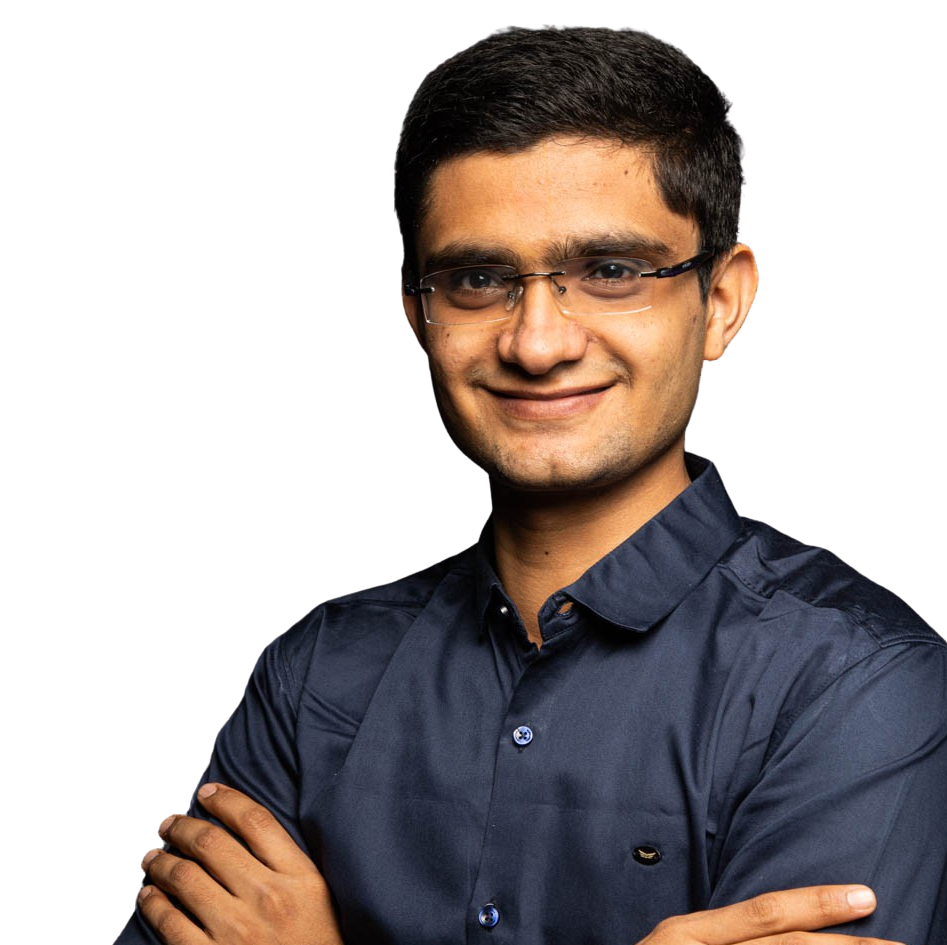
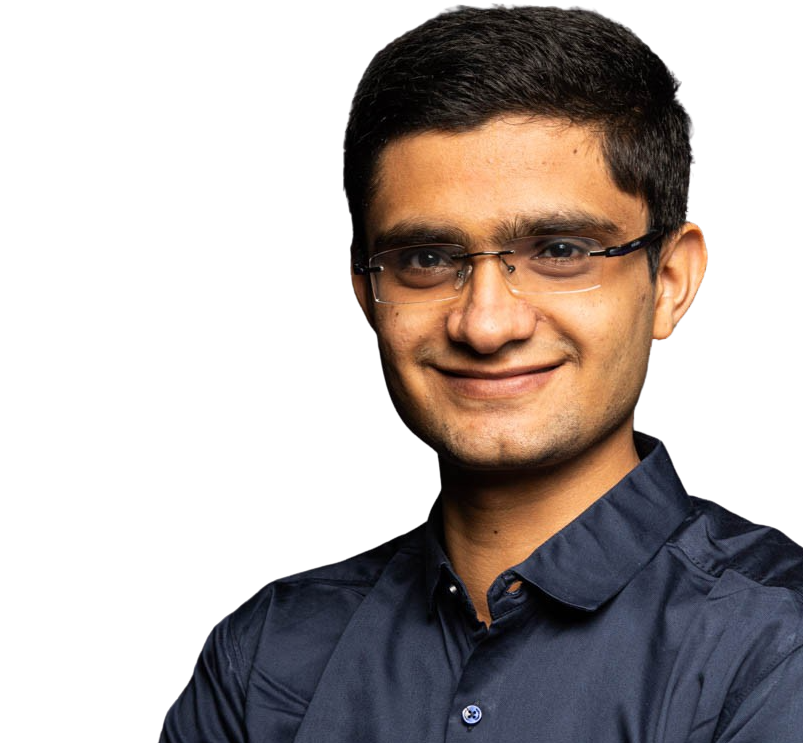
first section for responsiveness

diff --git a/index.html b/index.html
@@ -20,14 +20,19 @@
   </head>
   <body>
     <header class="header-container" data-js="main-container">
+      <div class="tag-image">
+        <a href="#home"
+          ><img src="./assets/Nav_img.png" alt="tag-image"
+        /></a>
+      </div>
       <ul class="nav-bar">
-        <li>
+        <!-- <li>
           <div class="tag-image">
             <a href="#home"
               ><img src="./assets/Nav_img.png" alt="tag-image"
             /></a>
           </div>
-        </li>
+        </li> -->
         <li><a href="#home">Home</a></li>
         <li><a href="#about">About</a></li>
         <li><a href="#project">Project</a></li>
@@ -36,8 +41,10 @@
           <button data-js="toggle-switch">
             <i class="fa-regular  fa-2xl fa-moon" id="theme"></i>
           </button>
+          <i class="fa-solid fa-xmark "></i>
         </li>
       </ul>
+      <i class="fa-solid fa-bars "></i>
     </header>
     <main class="main-container">
       <!-- Home -->
@@ -48,7 +55,7 @@
           </h1>
           <p class="dev">Software Developer, Frontend & WebApp</p>
           <div class="rw-wrapper">
-            <p class="iam">I am</p>
+            <p class="iam">I am a</p>
             <div class="rw-words rw-words-1">
               <p>Thinker</p>
               <p>Problem Solver.</p>

diff --git a/CSS/main.css b/CSS/main.css
@@ -2,3 +2,56 @@
   display: flex;
   flex-direction: column;
 }
+
+i.fa-solid {
+  display: none;
+}
+
+/* Media Query */
+
+@media only screen and (max-width: 600px) {
+  .home-container .--right img {
+    content: url(../assets/backgroundmq.png);
+    width: 250px;
+    max-height: min-content;
+  }
+  .home-container .--left {
+    margin-left: 20px;
+  }
+  .home-container .--left h1 {
+    font-size: 1.5rem !important;
+  }
+  .home-container .--left .dev {
+    font-size: 1rem !important;
+    margin-left: 10px;
+  }
+  .iam {
+    font-size: 1.5rem !important;
+  }
+  .rw-words {
+    font-size: 1.5rem !important;
+  }
+  i.fa-solid {
+    display: block;
+    font-size: 25px;
+  }
+  .nav-bar {
+    background-color: blue;
+    position: fixed;
+    flex-direction: column;
+    top: 0;
+    right: 0;
+    width: 200px;
+    height: 100vh;
+  }
+  .tag-image img {
+    left: 30px;
+    top: 30px;
+  }
+  li .fa-solid {
+    position: relative;
+    bottom: 450px;
+    left: 10px;
+    font-size: 40px;
+  }
+}

diff --git a/CSS/home.css b/CSS/home.css
@@ -26,10 +26,6 @@
   font-size: 1.5rem;
 }
 
-.dev {
-  font-size: 50px;
-}
-
 /* Text Animation Start */
 .rw-wrapper {
   width: 70%;
@@ -94,12 +90,10 @@
 
 .home-container .--right {
   display: flex;
-  flex-direction: column;
   justify-content: center;
   align-items: center;
 }
 
 .home-container .--right img {
   height: 60vh;
-  width: 100%;
 }

diff --git a/CSS/about.css b/CSS/about.css
@@ -1,5 +1,3 @@
-/* About me Section */
-
 .aboutme-container {
   display: flex;
   flex-direction: column;

diff --git a/CSS/contact.css b/CSS/contact.css
@@ -1,4 +1,3 @@
-/* Get in Touch */
 .get-in-touch-container {
   display: flex;
   flex-direction: column;

diff --git a/CSS/projects.css b/CSS/projects.css
@@ -1,5 +1,3 @@
-/* Projects */
-
 .project-container {
   display: flex;
   flex-direction: column;
